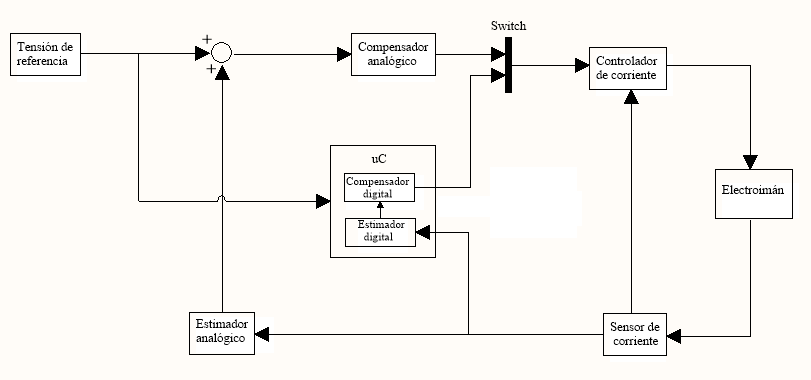
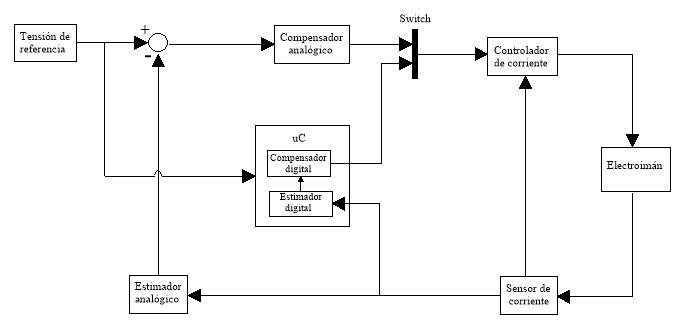
Cambios de imágenes y redacción en introducción

diff --git a/Informe final/Proyecto Levitador LaTeX/Informe/1-Introduccion/Introduccion.tex b/Informe final/Proyecto Levitador LaTeX/Informe/1-Introduccion/Introduccion.tex
@@ -17,7 +17,7 @@
 
 \section{Contexto del proyecto}
 
-\noindent El proyecto comenzó en junio del 2020. Inicialmente tenía como objetivo el diseño y la construcción de un prototipo funcional que permitiera a los alumnos de la asignatura de Sistemas de Control realizar mediciones y observar el comportamiento de las distintas etapas que componen el sistema. Sin embargo, debido a los retrasos ocasionados por la pandemia (COVID-19), los costos asociados a los componentes y a la fabricación de la placa de control, sumado a la  necesidad de no extender indefinidamente el proyecto, se optó por acotar el alcance sólo al diseño teórico de todas las etapas y del circuito impreso.
+\noindent El proyecto comenzó en junio del 2020. Inicialmente tenía como objetivo el diseño y la construcción de un prototipo funcional que permitiera a los alumnos de la asignatura de Sistemas de Control realizar mediciones y observar el comportamiento de las distintas etapas que componen el sistema. Sin embargo, debido a los retrasos ocasionados por la pandemia (COVID-19), los costos asociados a la fabricación de la placa de control y sus componentes, sumado a la  necesidad de no extender indefinidamente el proyecto, se optó por acotar el alcance sólo al diseño teórico de todas las etapas y del circuito impreso.
 
 \noindent Se espera que en el futuro se pueda construir el sistema de levitación magnética para que sirva como herramienta para los alumnos, de forma tal que les permita experimentar y afianzar los conceptos teóricos adquiridos durante el transcurso de la cursada.
 
@@ -25,7 +25,7 @@
 
 \section{Descripción del dispositivo}
 
-\noindent El producto está compuesto por dos partes principales: un electroimán y una placa de control. El electroimán tiene dos piezas formadas por láminas de acero apiladas: una con forma de “E”, que tiene un cable bobinado en su rama central. y otra con forma de “I” que es atraída por la primera mediante una fuerza electromagnética. Esta fuerza es regulada por la placa de control, que mantiene la distancia de separación o “gap” de aire deseado entre ellas mientras el objeto que se desea hacer levitar se sujeta de la pieza en forma de “I”. El sistema completo se muestra en la figura \ref{fig:img_Esquema-del-producto}.
+\noindent El producto está compuesto por dos partes principales: un electroimán y una placa de control. El electroimán tiene dos piezas formadas por láminas de acero apiladas: una con forma de “E”, que tiene un cable bobinado en su rama central. y otra con forma de “I” que es atraída por la primera mediante una fuerza electromagnética. Esta fuerza es regulada por la placa de control, que mantiene la distancia de separación ($Y_0$) o “gap” de aire deseado entre ellas mientras el objeto que se desea hacer levitar se sujeta de la pieza en forma de “I”. El sistema completo se muestra en la figura \ref{fig:img_Esquema-del-producto}.
 
 \begin{figure}[H]
 	\centering
@@ -33,15 +33,14 @@
 	\caption{Esquema del producto.}
 	\label{fig:img_Esquema-del-producto}
 \end{figure}
-\colorbox{red}{agregar fuerzas en la imgen}
-\noindent La fuerza electromagnética es regulada por la placa de control con el objetivo de mantener fija la distancia $Y_{o}$, a pesar de las perturbaciones externas que el sistema pueda recibir. 
+
+\noindent La fuerza electromagnética es regulada por la placa de control con el objetivo de mantener fija la distancia $Y_{o}$, a pesar de las perturbaciones externas \colorbox{yellow}{(e internas? podríamos mencionar la naturaleza inestable?)}que el sistema pueda recibir. 
 
 
 \noindent El sistema solo ejerce control de posición en el eje vertical, por lo tanto no puede responder ante perturbaciones horizontales sobre el objeto.
 
 
-\noindent El sistema está conformado por los bloques que se muestran en la Figura \ref{fig:img_diagrama-en-bloques-del-sistema}. Se utilizan dos controladores distintos: uno analógico y otro digital. Cada uno de ellos se compone de un compensador y un estimador de posición.  El usuario decidirá cual de estas implementaciones ejercerá el control mediante la utilización de un switch, por lo que solo una estará activa al mismo tiempo. El sistema analógico está formado por un conjunto de componentes pasivos y amplificadores operacionales, mientras que el digital está basado en un microcontrolador re-programable.
-\colorbox{yellow}{Ponerle un signo menos al restador de la figura 1.2}
+\noindent El sistema está conformado por los bloques que se muestran en la figura \ref{fig:img_diagrama-en-bloques-del-sistema}. Se utilizan dos controladores distintos: uno analógico y otro digital. Cada uno de ellos se compone de un compensador y un estimador de posición.  El usuario decidirá cual de estas implementaciones ejercerá el control mediante la utilización de un switch, por lo que solo una estará activa al mismo tiempo. El sistema analógico está formado por un conjunto de componentes pasivos y amplificadores operacionales, mientras que el digital está basado en un microcontrolador re-programable.
 
 \begin{figure}[H]
 	\centering
@@ -50,7 +49,7 @@
 	\label{fig:img_diagrama-en-bloques-del-sistema}
 \end{figure}
 
-\noindent El estimador de posición se encarga de entregar una tensión proporcional al gap de aire real en función de la corriente que circula por el electroimán. El usuario puede modificar el gap de aire que desea mediante un potenciómetro presente en la placa de control. Tanto la implementación analógica como la digital reciben como entrada esta tensión. Luego, es comparada con la estimación y se utiliza como entrada para el compensador.
+\noindent El estimador de posición se encarga de entregar una tensión proporcional al gap de aire real a partir de la corriente que circula por el electroimán. El usuario puede modificar el gap de aire según desee mediante un potenciómetro presente en la placa de control. Tanto la implementación analógica como la digital reciben como entrada esta tensión. Luego, es comparada con la estimación y se utiliza como entrada para el compensador.
 
 \noindent La función del compensador es garantizar la estabilidad del sistema. Esto lo logra al modificar la referencia del controlador de corriente mediante una acción de control. 
 
